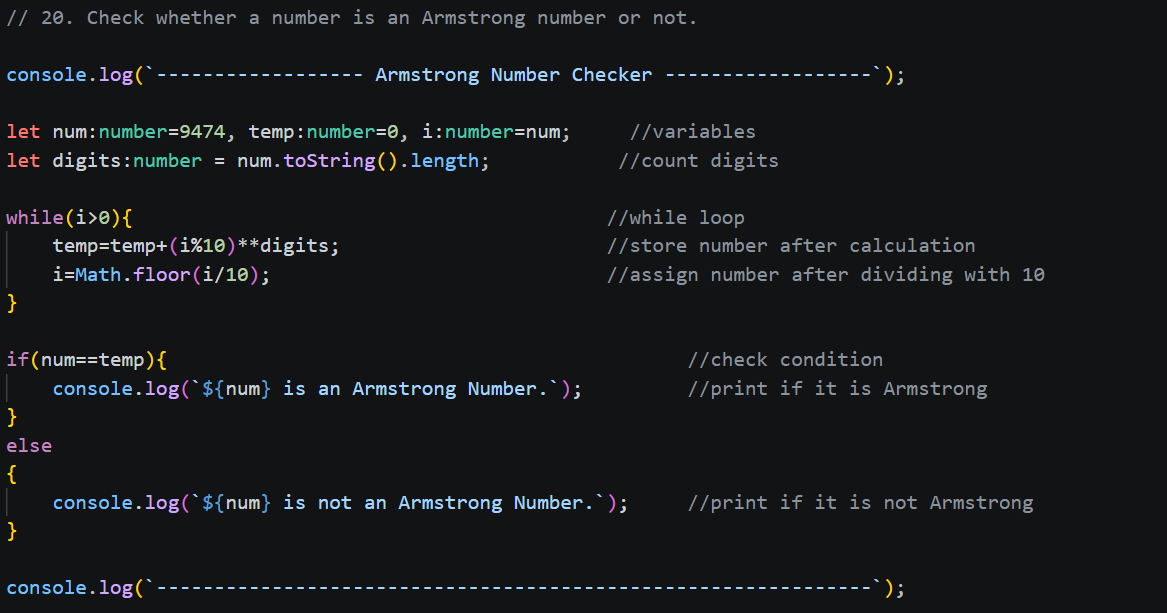
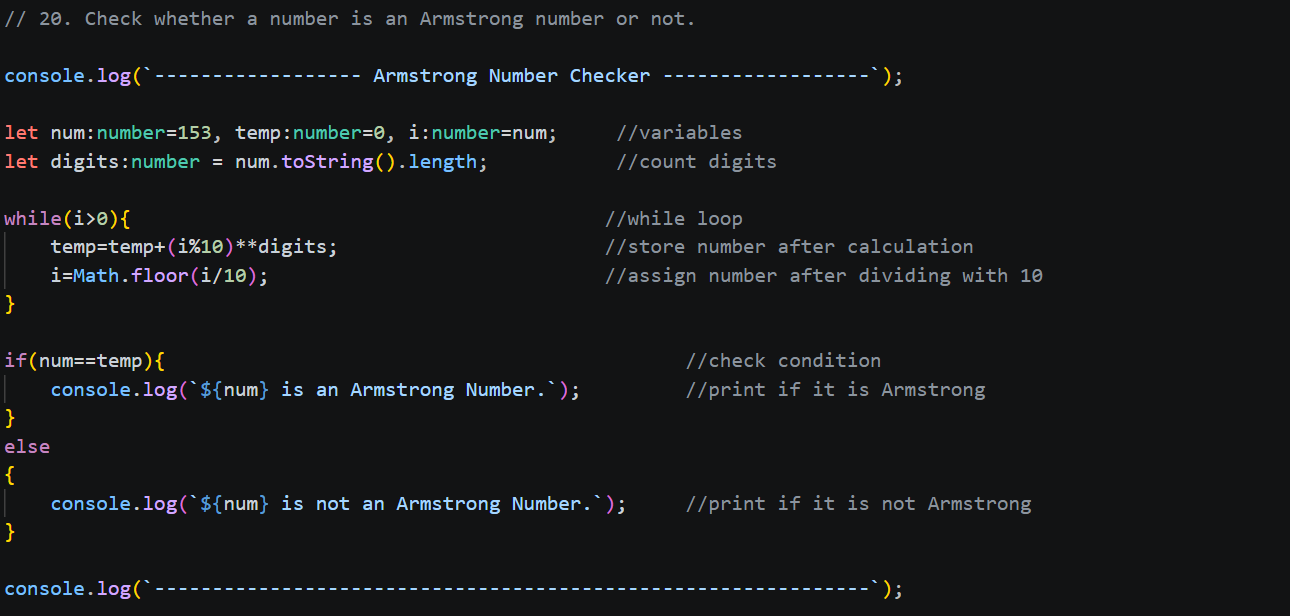
Update project files

diff --git a/program-20.js b/program-20.js
@@ -1,13 +1,13 @@
 "use strict";
 // 20. Check whether a number is an Armstrong number or not.
 console.log(`------------------ Armstrong Number Checker ------------------`);
-let num = 9474, temp = 0, i = num; //variables
+let num = 153, temp = 0, i = num; //variables
 let digits = num.toString().length; //count digits
 while (i > 0) { //while loop
-    temp = temp + (i % 10) ** digits; //store number after calculating armstrong
+    temp = temp + (i % 10) ** digits; //store number after calculation
     i = Math.floor(i / 10); //assign number after dividing with 10
 }
-if (num == temp) { //condition for Armstrong
+if (num == temp) { //check condition
     console.log(`${num} is an Armstrong Number.`); //print if it is Armstrong
 }
 else {

diff --git a/program-20.ts b/program-20.ts
@@ -2,7 +2,7 @@
 
 console.log(`------------------ Armstrong Number Checker ------------------`);
 
-let num:number=9474, temp:number=0, i:number=num;     //variables
+let num:number=153, temp:number=0, i:number=num;     //variables
 let digits:number = num.toString().length;           //count digits
 
 while(i>0){                                         //while loop